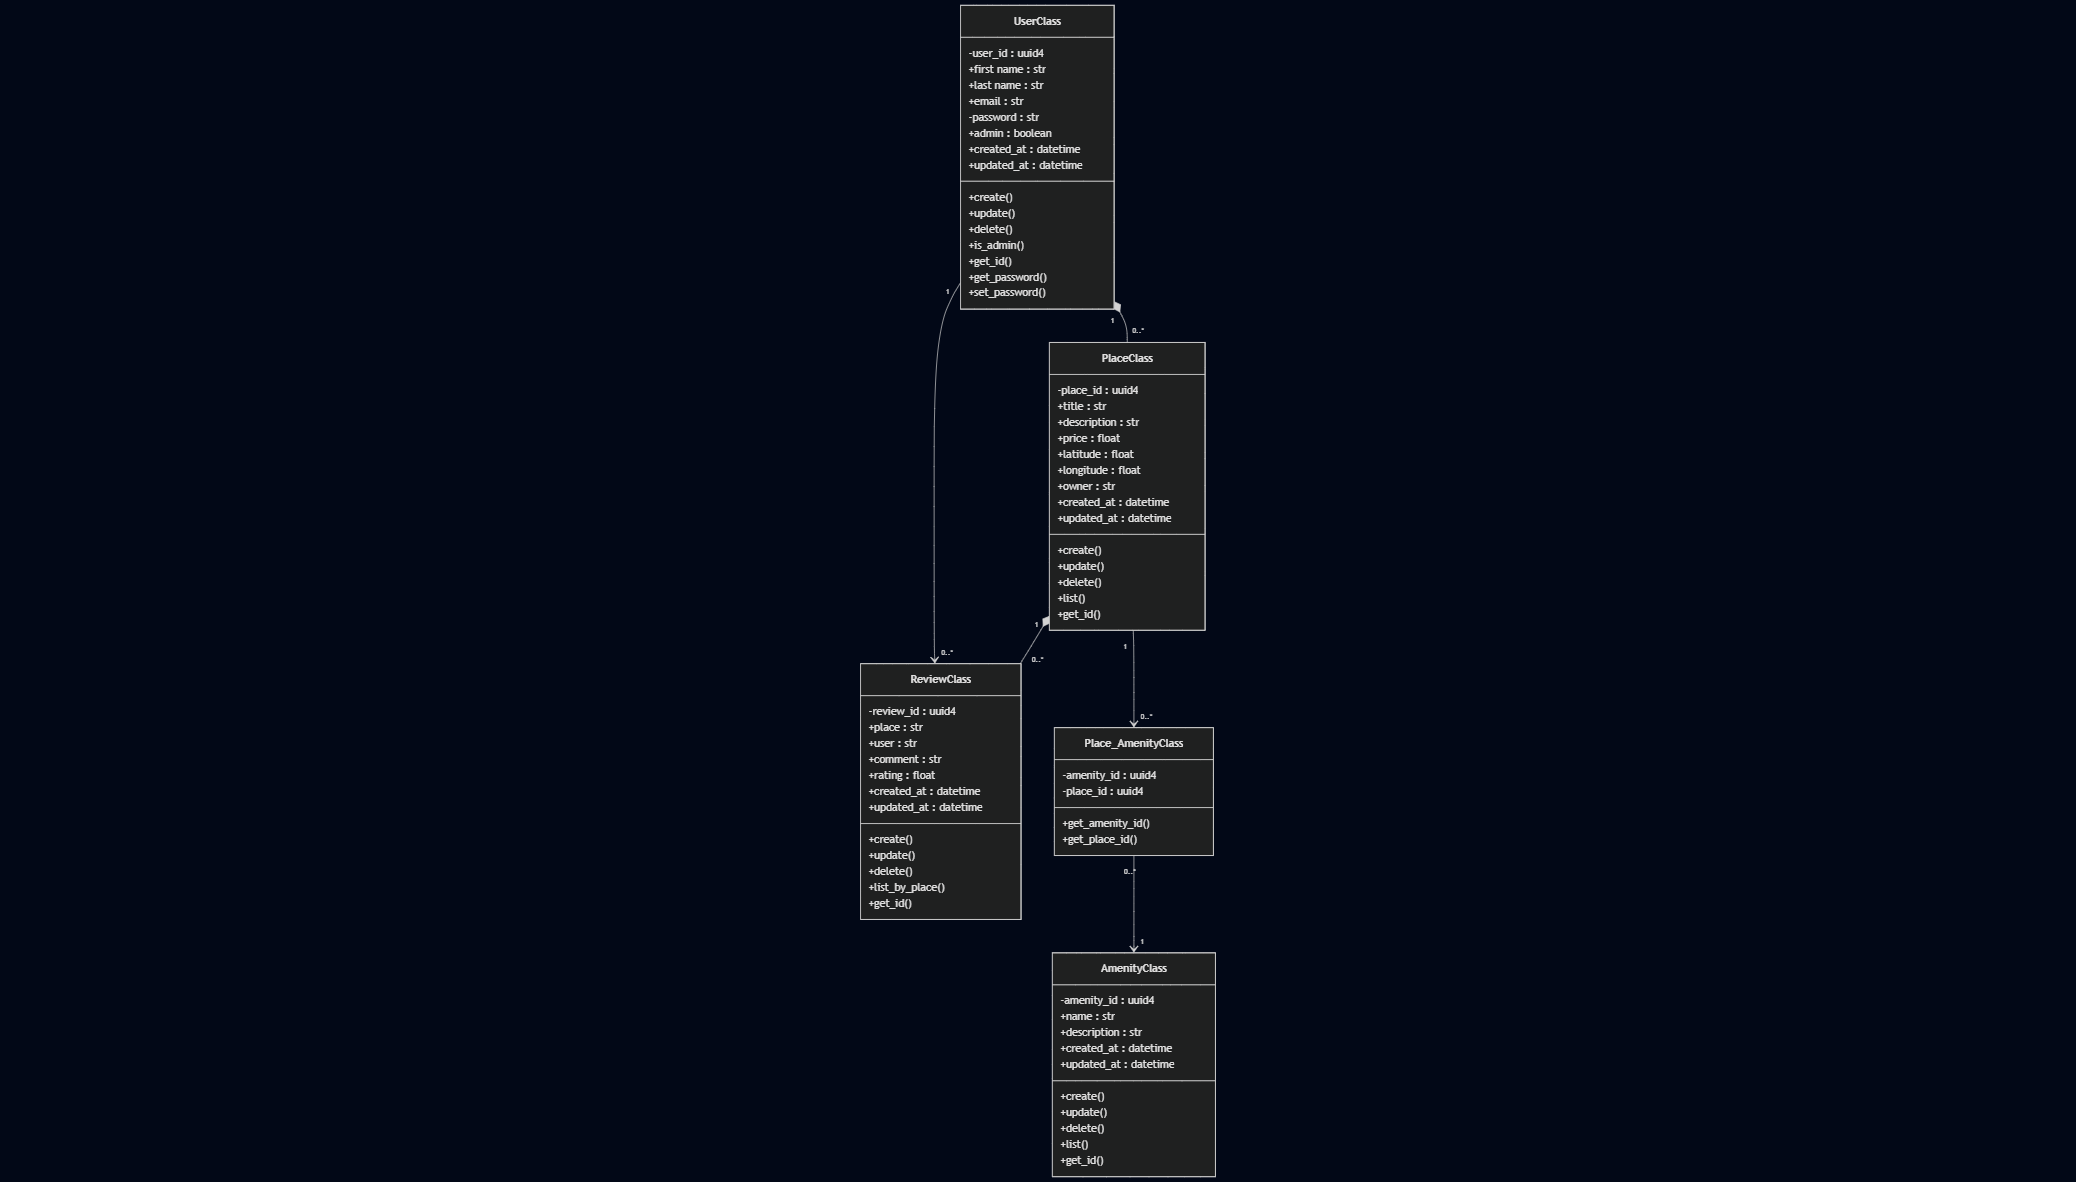
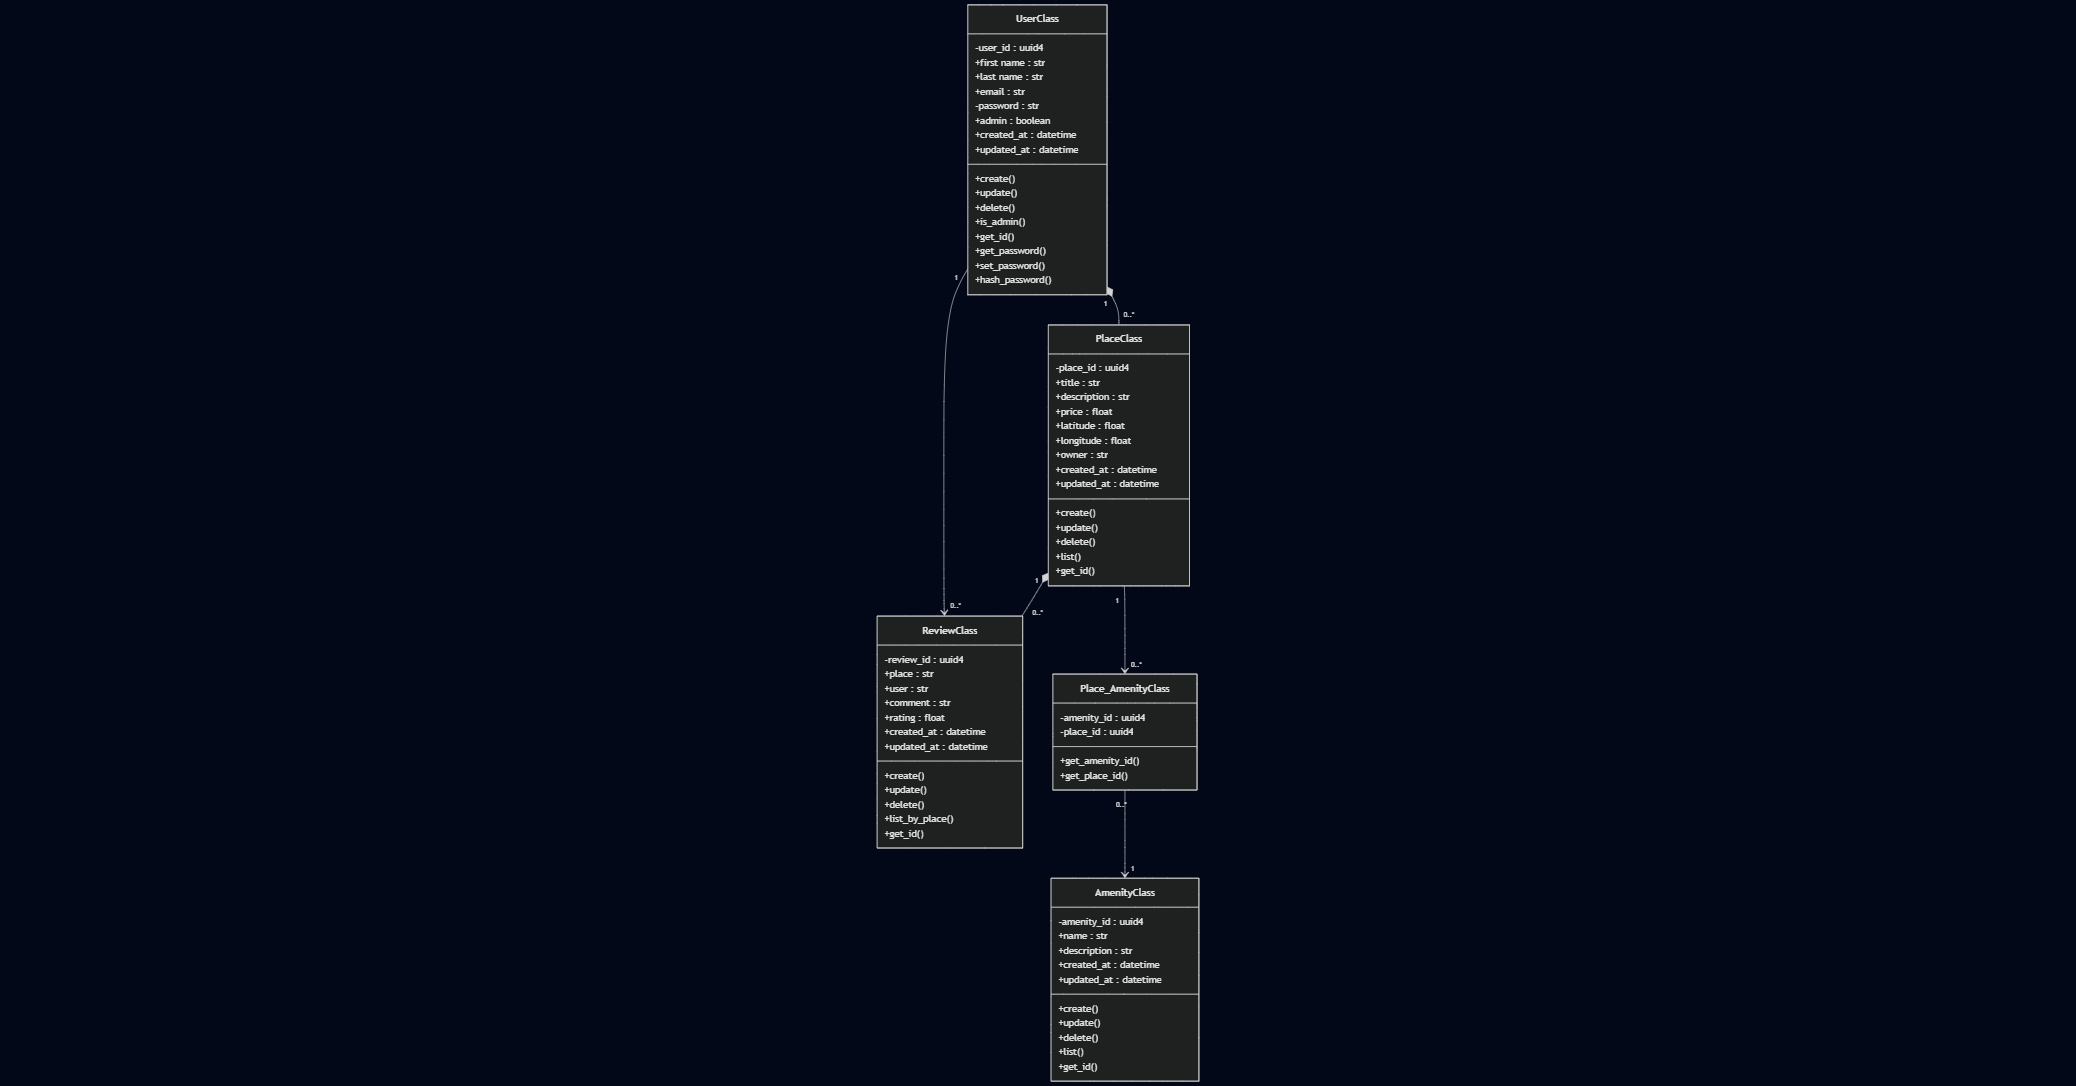
docs: Update add hash_password in digram and readme

Changed region(s): [[0.4624, 0.0, 0.5857, 0.547], [0.4008, 0.547, 0.5857, 0.7901], [0.4933, 0.7901, 0.5857, 1.0]]

diff --git a/part1/README.md b/part1/README.md
@@ -224,13 +224,27 @@ The API passes the data to the Business Logic layer for business validation.
 
 If the email already exists: `400 Bad Request` response.
 
-<u>__If validation succeeds:__</u>
+<u>__If business validation passes:__</u>
 
-The business logic calls the database to register the user.
+Business Logic hashes the user's password with `hash_password()`
+The plain-text password is transformed into a secure hash before any storage.
 
-If a database error occurs: `500 Internal Server Error`.
+<u>__If hashing fails due to an internal error:__</u>
 
-Otherwise → `201 Created` with the user ID.
+`500 Internal Server Error` is returned with an error message like "Password hashing failed".
+
+<u>__If hashing is successful:__</u>
+
+Business Logic saves the new user in the Database
+
+<u>__If a database error occurs:__</u>
+
+`500 Internal Server Error` is returned.
+
+<u>__If the user is saved successfully:__</u>
+
+`201 Created` is returned, along with the generated `user_id`.
+
 
 ![Diagram User Registration](/part1/User_Registration.png)
 
